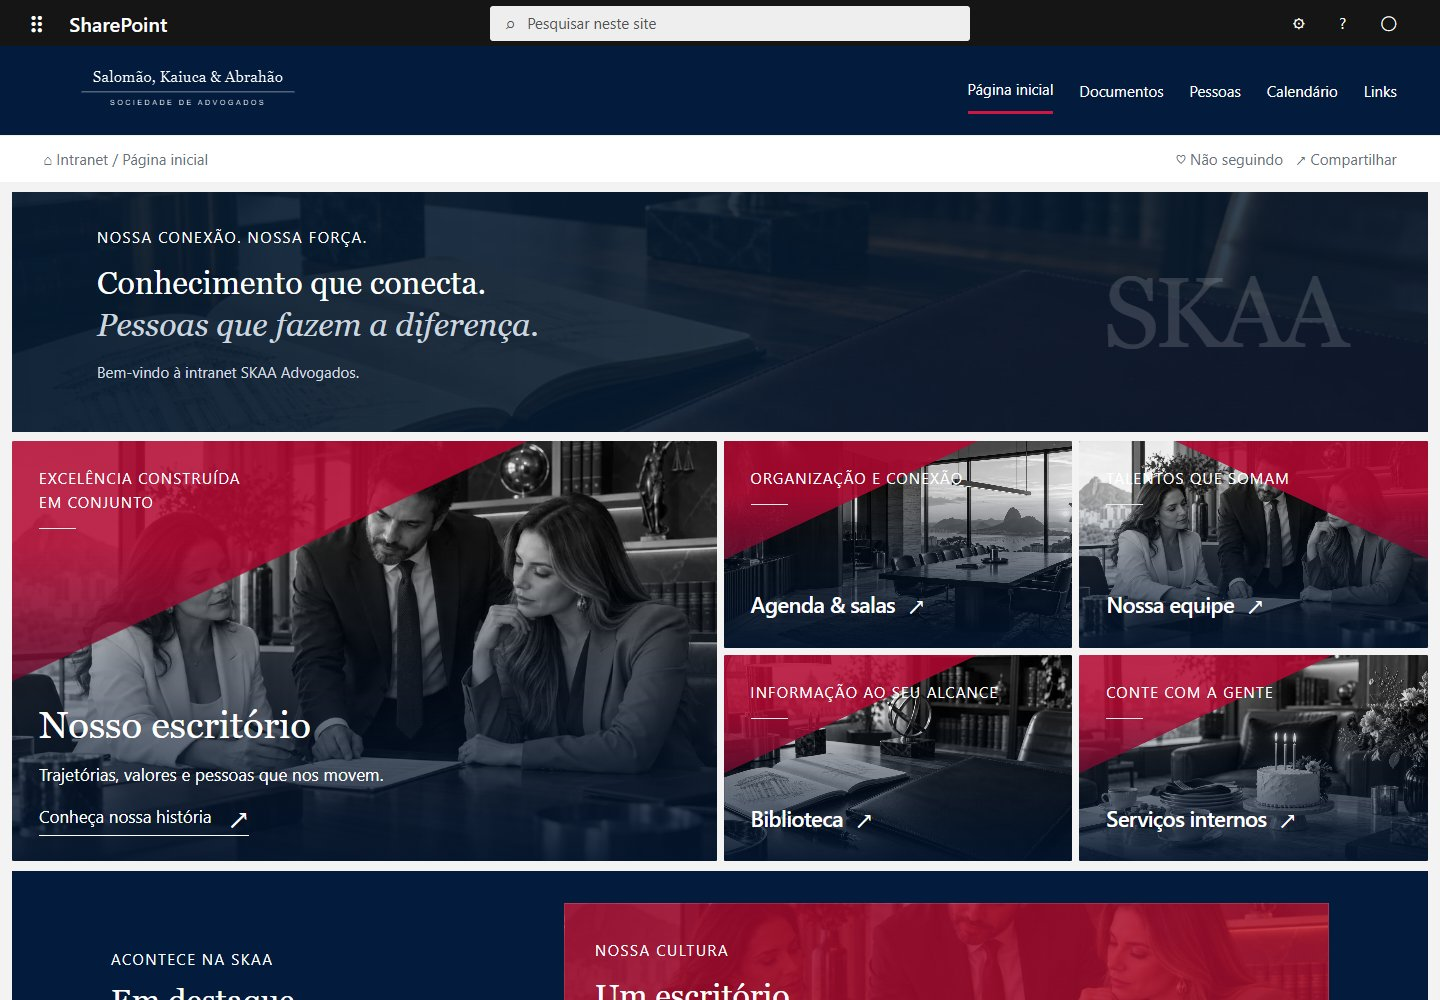
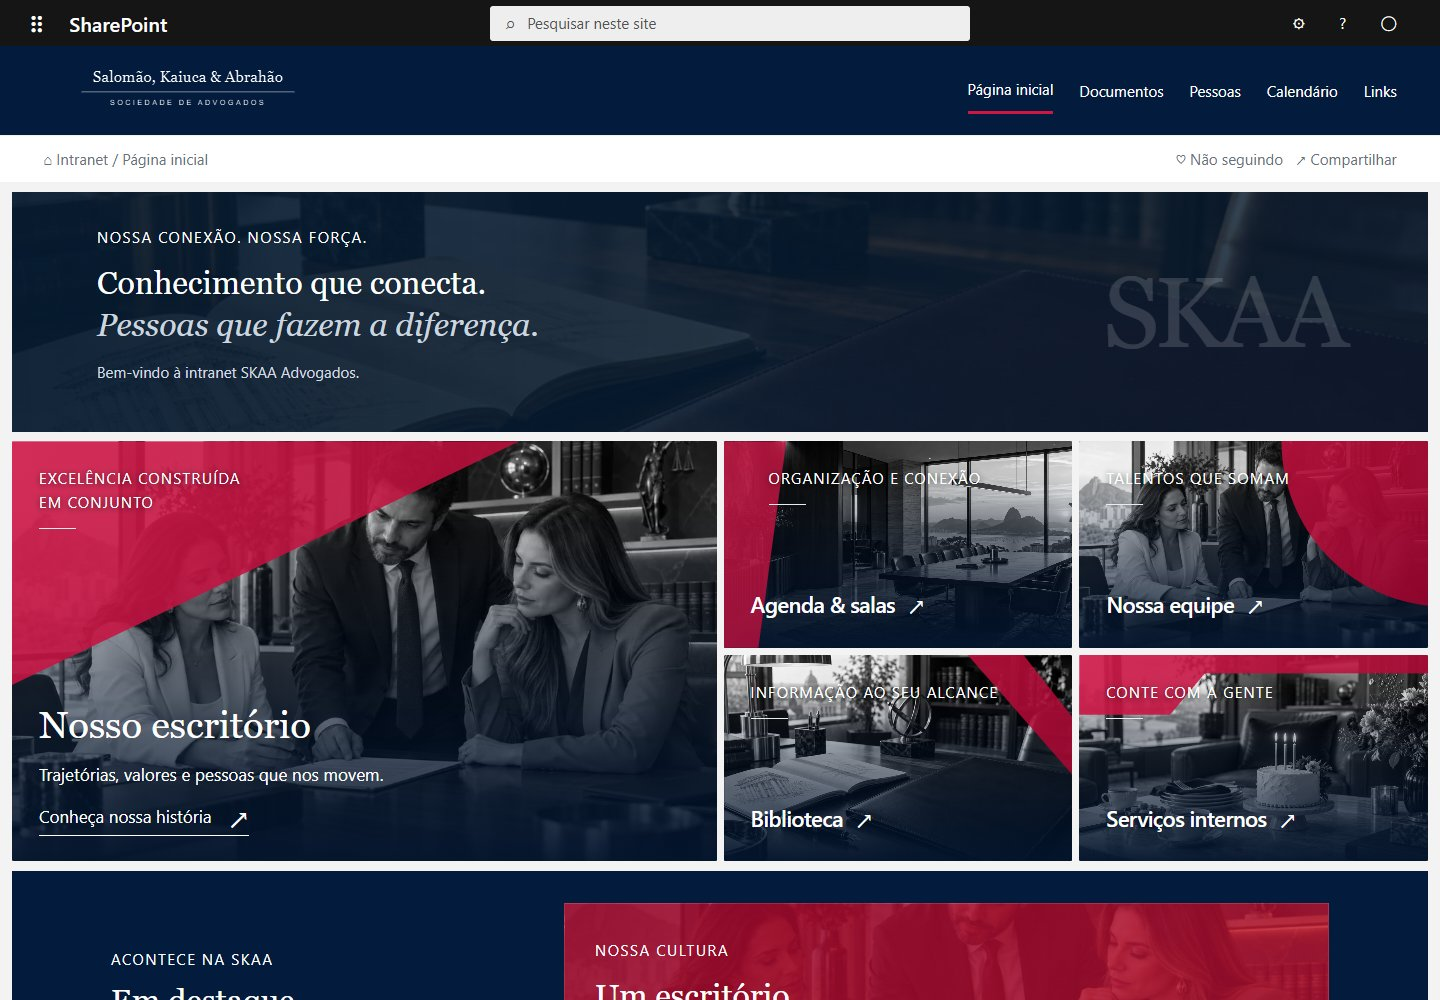
Vary red brand shapes across SKAA mosaic cards

diff --git a/skaa/assets/skaa.css b/skaa/assets/skaa.css
@@ -1,1 +1,13 @@
 html{scroll-behavior:smooth;scroll-padding-top:24px}:root{--red:#b40832;--navy:#031c3d;font-size:15px}button{font:inherit;color:inherit;cursor:pointer;border:0;background:none}body{background:#f3f3f3}h2,h3{font-weight:500}.suite{background:#151515;font-size:15px}.search{background:#eee;color:#555;font-size:15px}.header{background:var(--navy);color:#fff;padding:15px 3%;min-height:85px}.brand img{width:290px;filter:brightness(0) invert(1)}.nav{gap:26px}.nav a[aria-current]{border-color:#d01642}.command-bar{display:flex;justify-content:space-between;background:white;padding:13px 3%;font-size:15px;color:#69717a}.page{padding:10px 12px 0;max-width:1700px}.identity-banner{min-height:225px;padding:35px 6%;color:#fff;background:linear-gradient(90deg,#061b31ef,#061b31cf),url('documents.webp') center 55%/cover;display:flex;align-items:center;justify-content:space-between;position:relative;overflow:hidden;margin-bottom:9px}.kicker{font-size:15px;letter-spacing:.1em}.identity-banner h1{font:32px/1.3 Georgia,serif;margin:16px 0}.identity-banner em{font-weight:400;color:#cbd5df}.identity-banner p{font-size:15px;color:#d4dae1}.banner-mark{font:100px Georgia,serif;opacity:.15;letter-spacing:-5px}.hero{gap:7px}.primary{min-height:420px}.tiles{gap:7px}.photo{background:#122033}.photo:before{content:"";position:absolute;inset:0;z-index:-2;background:var(--photo) center/cover;filter:grayscale(1);transition:transform 1s cubic-bezier(.22,1,.36,1)}.team{--photo:url('team.webp')}.office{--photo:url('office.webp')}.documents{--photo:url('documents.webp')}.celebration{--photo:url('celebration.webp')}.photo:after{content:"";position:absolute;inset:0;z-index:-1;background:linear-gradient(0deg,#03142cef,transparent 75%),linear-gradient(155deg,#b40832db 0%,#b40832db 32%,transparent 32.2%)}.photo.alternate:after{background:linear-gradient(0deg,#03142cef,transparent 75%),linear-gradient(25deg,transparent 68%,#b40832de 68.2%)}.photo:hover:before{transform:scale(1.075)}.card:hover{filter:none}.eyebrow,.primary .eyebrow{font-size:15px;letter-spacing:.08em;line-height:1.6;width:85%}.caption{margin-top:90px}.caption h2{font:38px Georgia,serif;margin:0 0 13px}.caption p{font-size:17px}.cta{font-size:17px}.tile-title{font-size:22px;border:0}.news-band{background:var(--navy);display:grid;grid-template-columns:.8fr 1.5fr;gap:45px;align-items:center;color:white;padding:32px 7%;margin-top:10px}.news-label h2{font:32px Georgia,serif;margin:14px 0}.news-label p{font-size:16px;color:#b9c7d7;line-height:1.6}.slider-controls{display:flex;align-items:center;gap:18px;margin-top:25px}.slider-controls button{border:1px solid #ffffff55;width:42px;height:42px;font-size:23px}.news-feature{min-height:270px;padding:30px;text-align:left;color:#fff;background:linear-gradient(120deg,#97072aeb,#be1239bb),url('team.webp') center/cover;position:relative;border:1px solid #ffffff20}.news-feature h3{font:32px/1.15 Georgia,serif;margin:18px 0}.news-feature p{max-width:480px;font-size:16px;line-height:1.6}.news-feature>span:last-child{display:block;margin-top:22px}.workspace{display:grid;grid-template-columns:1.6fr 1fr;gap:32px;padding:38px 6%;background:#f4f4f4}.section-heading{display:flex;align-items:center;justify-content:space-between;gap:20px;margin:0 0 24px}.section-heading h2{font-size:24px;margin:0}.section-heading>span,.section-heading>button{font-size:15px;color:#9b1537}.events{display:grid;grid-template-columns:repeat(3,1fr);gap:12px}.event{background:white;text-align:left;border:1px solid #ddd;min-height:220px;padding:20px;transition:transform .4s,box-shadow .4s}.event:hover{transform:translateY(-5px);box-shadow:0 10px 25px #00152c15}.event h3{font-size:18px;line-height:1.35}.event p,.event>span:last-child{font-size:15px;color:#6d7480;line-height:1.6}.event time{display:flex;flex-direction:column;width:55px;padding:5px;text-align:center;border:1px solid #ddd;font-size:29px;color:#991335}.event time span{font-size:15px}.calendar-icon{font-size:45px;display:block;background:var(--navy);color:white;padding:12px}.news-list button{display:flex;text-align:left;gap:16px;width:100%;border-bottom:1px solid #ddd;padding:12px 0;font-size:17px}.news-list img{width:90px;height:65px;object-fit:cover;filter:grayscale(1)}.news-list small{display:block;font-size:15px;color:#777;margin-top:8px}.rooms{background:var(--red);color:white;padding:27px 6%;display:grid;grid-template-columns:1.1fr 1fr 1fr 1fr;gap:25px;align-items:center}.rooms h2{font-size:24px}.rooms button{display:flex;align-items:center;gap:12px;text-align:left}.rooms small{display:block;font-size:15px;margin-top:7px;color:#eed0d8;line-height:1.5}.room-icon{font-size:35px}.rooms b{margin-left:auto}#links{padding:38px 6%;background:white}.resources{display:grid;grid-template-columns:repeat(4,1fr);gap:15px}.resources button{text-align:left;border:1px solid #ddd;padding:25px;position:relative;transition:background .4s,color .4s,transform .4s}.resources button:hover{background:var(--navy);color:white;transform:translateY(-5px)}.resources button>span{font-size:36px;color:#ba113c}.resources h3{font-size:20px}.resources p{font-size:15px;line-height:1.5}.resources b{position:absolute;right:18px;bottom:18px}.birthdays{padding:42px 8%;background:linear-gradient(120deg,#eee,#fff 50%,#eee)}.birthdays>.kicker{display:block;text-align:center;color:#8c2340;margin-bottom:20px}.people{display:grid;grid-template-columns:repeat(5,1fr);gap:22px}.people article{background:white;text-align:center;box-shadow:0 5px 15px #00152c0c}.birthday-date{display:block;background:var(--red);color:white;padding:9px;font-size:15px}.portrait{height:125px;display:grid;place-items:center;background:linear-gradient(135deg,#d5dbe1,#f7f7f7)}.portrait span{width:72px;height:72px;display:grid;place-items:center;border-radius:50%;background:var(--navy);color:white;font:26px Georgia,serif}.people h3{font-size:18px;margin:16px 5px 8px}.people p{font-size:15px;color:#737b84;margin:0 5px 20px}.footer{background:#fff;font-size:15px;padding:30px}.footer img{width:280px;max-width:90%}.notice{font-size:15px}.notice button{background:var(--red)}@media(max-width:1100px){.rooms{grid-template-columns:1fr 1fr}.workspace{grid-template-columns:1fr}.resources{grid-template-columns:1fr 1fr}.people{gap:12px}.header{flex-wrap:wrap}.banner-mark{display:none}}@media(max-width:760px){.command-bar span:last-child{display:none}.identity-banner{padding:30px 24px}.identity-banner h1{font-size:28px}.primary{min-height:340px}.tiles .card{min-height:230px}.news-band{grid-template-columns:1fr;padding:28px 20px;gap:20px}.events{grid-template-columns:1fr}.rooms{grid-template-columns:1fr;padding:28px}.people{grid-template-columns:1fr 1fr}.resources{grid-template-columns:1fr}.nav{gap:18px;flex-wrap:wrap}.section-heading{flex-wrap:wrap}.page{padding:8px}.birthdays{padding:30px 20px}.suite strong{font-size:18px}.kicker{letter-spacing:.04em}.tile-title{font-size:22px}.eyebrow{font-size:15px}}@media(prefers-reduced-motion:reduce){html{scroll-behavior:auto}*,*:before{transition:none!important;animation:none!important}}
+
+/* Distinct brand compositions across the editorial mosaic. */
+.hero .photo:after{background:linear-gradient(0deg,#03142cf5,transparent 85%);}
+.hero .photo .brand-shape{position:absolute;inset:0;z-index:0;pointer-events:none;background:linear-gradient(135deg,#d01949e8,#a3002bd4);transition:transform .9s cubic-bezier(.22,1,.36,1);}
+.hero .primary .brand-shape{clip-path:polygon(0 0,72% 0,0 58%);}
+.hero .office .brand-shape{clip-path:polygon(0 0,18% 0,10% 100%,0 100%);opacity:.9;}
+.hero .alternate .brand-shape{clip-path:ellipse(47% 80% at 105% 0%);}
+.hero .documents .brand-shape{clip-path:polygon(70% 0,86% 0,100% 30%,100% 58%);}
+.hero .celebration .brand-shape{clip-path:polygon(0 0,100% 0,100% 9%,36% 9%,26% 29%,0 29%);}
+.hero .photo:hover .brand-shape{transform:scale(1.045);}
+.hero .office .eyebrow{padding-left:18px;}
+.hero .photo .eyebrow{text-shadow:0 1px 6px #000b;}

diff --git a/skaa/index.html b/skaa/index.html
@@ -2,7 +2,7 @@
 <a class="skip" href="#conteudo">Pular para o conteúdo</a><div class="suite" aria-label="Barra ilustrativa do Microsoft 365"><span class="dots" aria-hidden="true">⠿</span><strong>SharePoint</strong><span class="search">⌕ &nbsp; Pesquisar neste site</span><span class="suite-icons" aria-hidden="true">⚙ ? ◯</span></div>
 <header class="header"><a href="#conteudo" class="brand"><img src="assets/brand.svg" alt="Salomão, Kaiuca & Abrahão — Sociedade de Advogados"></a><nav class="nav" aria-label="Principal"><a href="#conteudo" aria-current="page">Página inicial</a><a href="#documentos">Documentos</a><a href="#pessoas">Pessoas</a><a href="#calendario">Calendário</a><a href="#links">Links</a></nav></header><div class="command-bar"><span>⌂ Intranet / Página inicial</span><span>♡ Não seguindo &nbsp; ↗ Compartilhar</span></div>
 <main class="page" id="conteudo"><section class="identity-banner"><div><span class="kicker">NOSSA CONEXÃO. NOSSA FORÇA.</span><h1>Conhecimento que conecta.<br><em>Pessoas que fazem a diferença.</em></h1><p>Bem-vindo à intranet SKAA Advogados.</p></div><span class="banner-mark" aria-hidden="true">SKAA</span></section>
-<section class="hero" aria-label="Destaques da intranet"><a class="card primary photo team" href="#escritorio" data-destination="Nosso escritório"><p class="eyebrow">Excelência construída<br>em conjunto</p><div class="caption"><h2>Nosso escritório</h2><p>Trajetórias, valores e pessoas que nos movem.</p><span class="cta">Conheça nossa história <span class="arrow">↗</span></span></div></a><div class="tiles"><a class="card photo office" href="#calendario"><p class="eyebrow">Organização e conexão</p><h2 class="tile-title">Agenda & salas <span class="arrow">↗</span></h2></a><a class="card photo team alternate" href="#pessoas"><p class="eyebrow">Talentos que somam</p><h2 class="tile-title">Nossa equipe <span class="arrow">↗</span></h2></a><a class="card photo documents" href="#documentos"><p class="eyebrow">Informação ao seu alcance</p><h2 class="tile-title">Biblioteca <span class="arrow">↗</span></h2></a><a class="card photo celebration" href="#links"><p class="eyebrow">Conte com a gente</p><h2 class="tile-title">Serviços internos <span class="arrow">↗</span></h2></a></div></section>
+<section class="hero" aria-label="Destaques da intranet"><a class="card primary photo team" href="#escritorio" data-destination="Nosso escritório"><span class="brand-shape" aria-hidden="true"></span><p class="eyebrow">Excelência construída<br>em conjunto</p><div class="caption"><h2>Nosso escritório</h2><p>Trajetórias, valores e pessoas que nos movem.</p><span class="cta">Conheça nossa história <span class="arrow">↗</span></span></div></a><div class="tiles"><a class="card photo office" href="#calendario"><span class="brand-shape" aria-hidden="true"></span><p class="eyebrow">Organização e conexão</p><h2 class="tile-title">Agenda & salas <span class="arrow">↗</span></h2></a><a class="card photo team alternate" href="#pessoas"><span class="brand-shape" aria-hidden="true"></span><p class="eyebrow">Talentos que somam</p><h2 class="tile-title">Nossa equipe <span class="arrow">↗</span></h2></a><a class="card photo documents" href="#documentos"><span class="brand-shape" aria-hidden="true"></span><p class="eyebrow">Informação ao seu alcance</p><h2 class="tile-title">Biblioteca <span class="arrow">↗</span></h2></a><a class="card photo celebration" href="#links"><span class="brand-shape" aria-hidden="true"></span><p class="eyebrow">Conte com a gente</p><h2 class="tile-title">Serviços internos <span class="arrow">↗</span></h2></a></div></section>
 <section class="news-band" aria-labelledby="news-title"><div class="news-label"><span class="kicker">ACONTECE NA SKAA</span><h2 id="news-title">Em destaque</h2><p>As novidades que aproximam nosso time.</p><div class="slider-controls"><button data-prev aria-label="Notícia anterior">←</button><span id="slide-count">01 / 03</span><button data-next aria-label="Próxima notícia">→</button></div></div><button class="news-feature" id="news-feature"><span class="kicker" id="news-category">NOSSA CULTURA</span><h3 id="news-heading">Um escritório.<br>Muitas conexões.</h3><p id="news-summary">Conheça as iniciativas que fortalecem o nosso jeito de trabalhar.</p><span>Leia o comunicado ↗</span></button></section>
 <section class="workspace" id="calendario"><div><div class="section-heading"><h2>Calendário corporativo</h2><button data-destination="Agenda completa">Ver agenda ↗</button></div><div class="events"><button class="event featured" data-destination="Calendário corporativo"><span class="calendar-icon">▦</span><h3>Planeje sua semana</h3><p>Encontros e compromissos em um só lugar.</p><span>Explorar calendário ↗</span></button><button class="event" data-destination="Encontro de equipes"><time><span>OUT</span>01</time><h3>Encontro de equipes</h3><p>09h30 · Auditório</p><span>Integração e alinhamento</span></button><button class="event" data-destination="Conhecimento em pauta"><time><span>OUT</span>08</time><h3>Conhecimento em pauta</h3><p>14h00 · Online</p><span>Troca de experiências</span></button></div></div><aside class="news-list"><div class="section-heading"><h2>Notícias</h2></div><button data-destination="Biblioteca atualizada"><img src="assets/documents.webp" alt="" loading="lazy"><span>Biblioteca atualizada<small>Materiais para o seu dia a dia.</small></span></button><button data-destination="Boas-vindas ao time"><img src="assets/team.webp" alt="" loading="lazy"><span>Boas-vindas ao time<small>Novas pessoas, novas perspectivas.</small></span></button><button data-destination="Momentos para celebrar"><img src="assets/celebration.webp" alt="" loading="lazy"><span>Momentos para celebrar<small>Conquistas que compartilhamos.</small></span></button></aside></section>
 <section class="rooms"><div><span class="kicker">ENCONTRE SEU ESPAÇO</span><h2>Calendário de salas</h2></div><button data-destination="Sala de reuniões 01"><span class="room-icon">▦</span><span>Sala de reuniões 01<small>8 pessoas · Videoconferência</small></span><b>↗</b></button><button data-destination="Sala de reuniões 02"><span class="room-icon">▦</span><span>Sala de reuniões 02<small>12 pessoas · Apresentações</small></span><b>↗</b></button><button data-destination="Auditório"><span class="room-icon">▦</span><span>Auditório<small>Encontros e treinamentos</small></span><b>↗</b></button></section>
